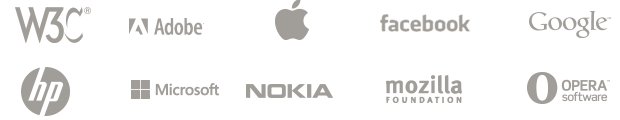
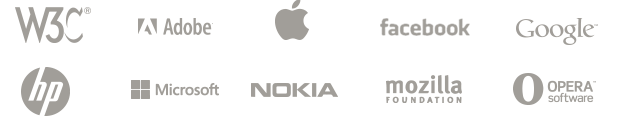
Landing page

diff --git a/webplatform/assets/landing.css b/webplatform/assets/landing.css
@@ -214,17 +214,19 @@ ul.hot-topics {
 footer ul.stewards {
 	padding: 0;
 	float: right;
-	width: 620px;
+	width: 650px;
 	margin: -2.5em auto 0;
 	padding: 2em 0;
 }
 
 	footer ul.stewards > li {
+		display: inline;
 		list-style: none;
 	}
 	
 		footer ul.stewards > li > a {
-			float: left;
+			display: inline-block;
+			vertical-align: middle;
 			width: 124px;
 			height: 60px;
 			background: url(footer-images.png) no-repeat 0 0;
